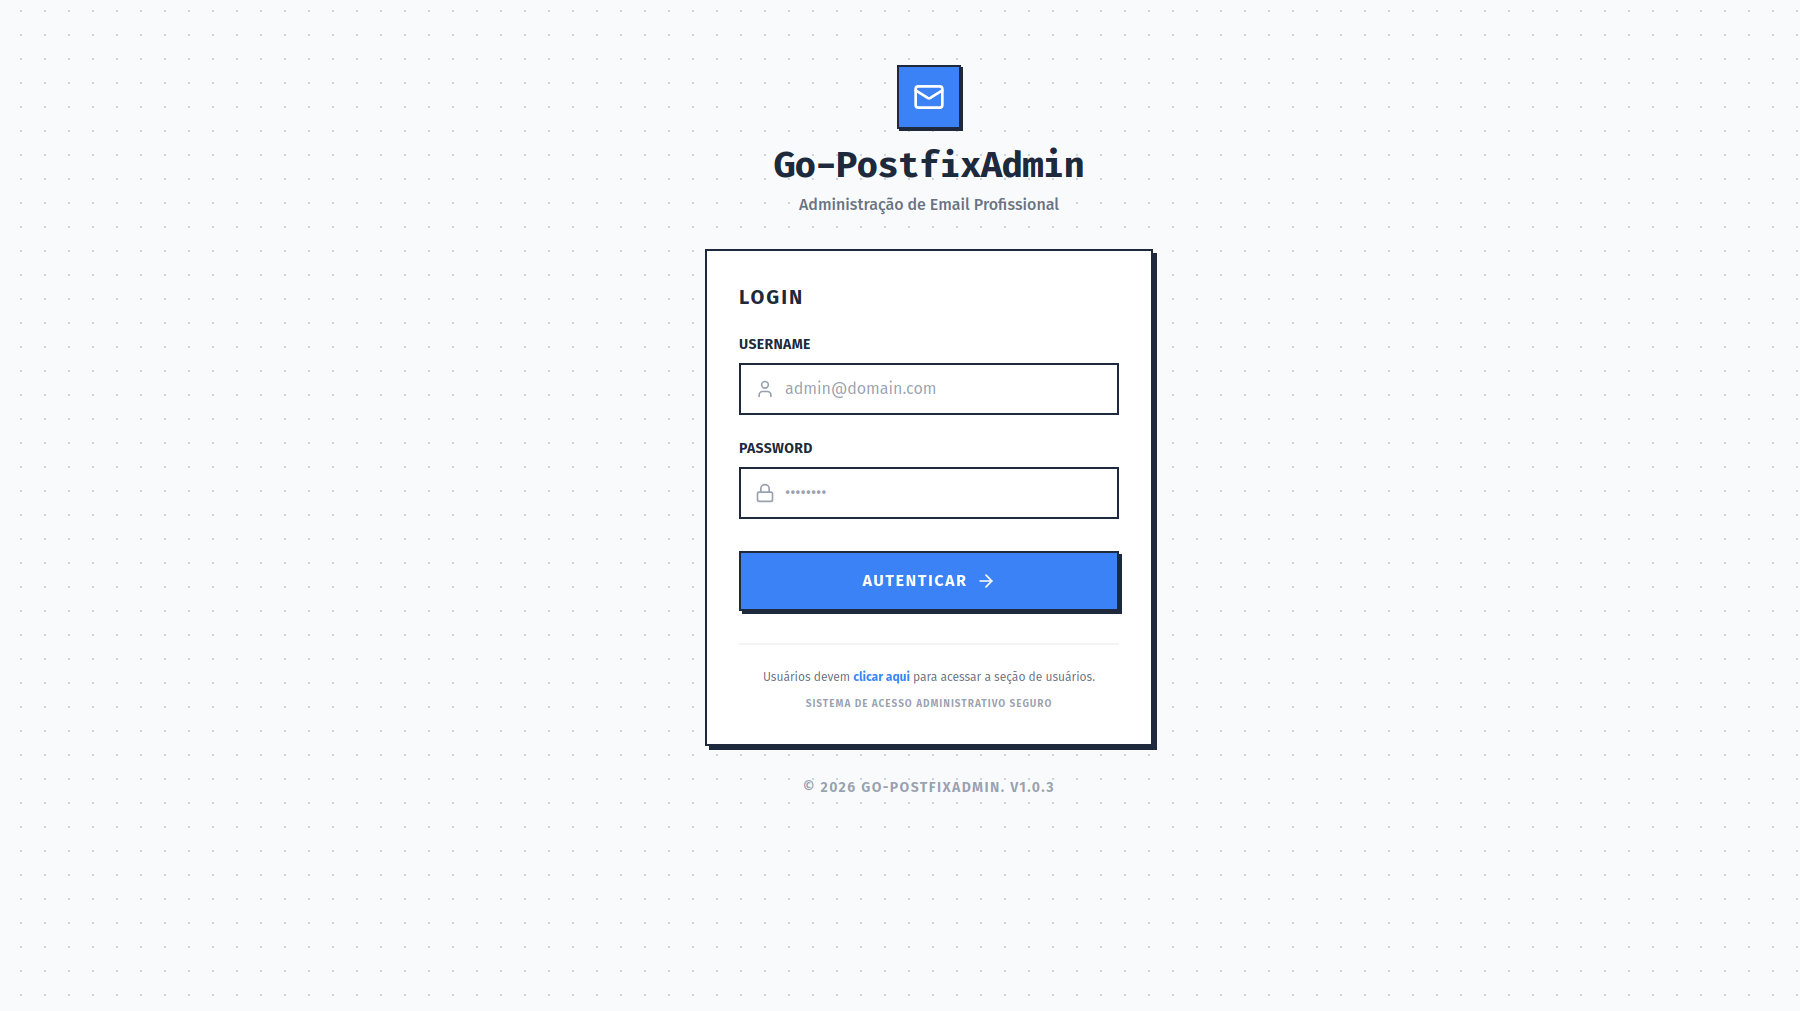
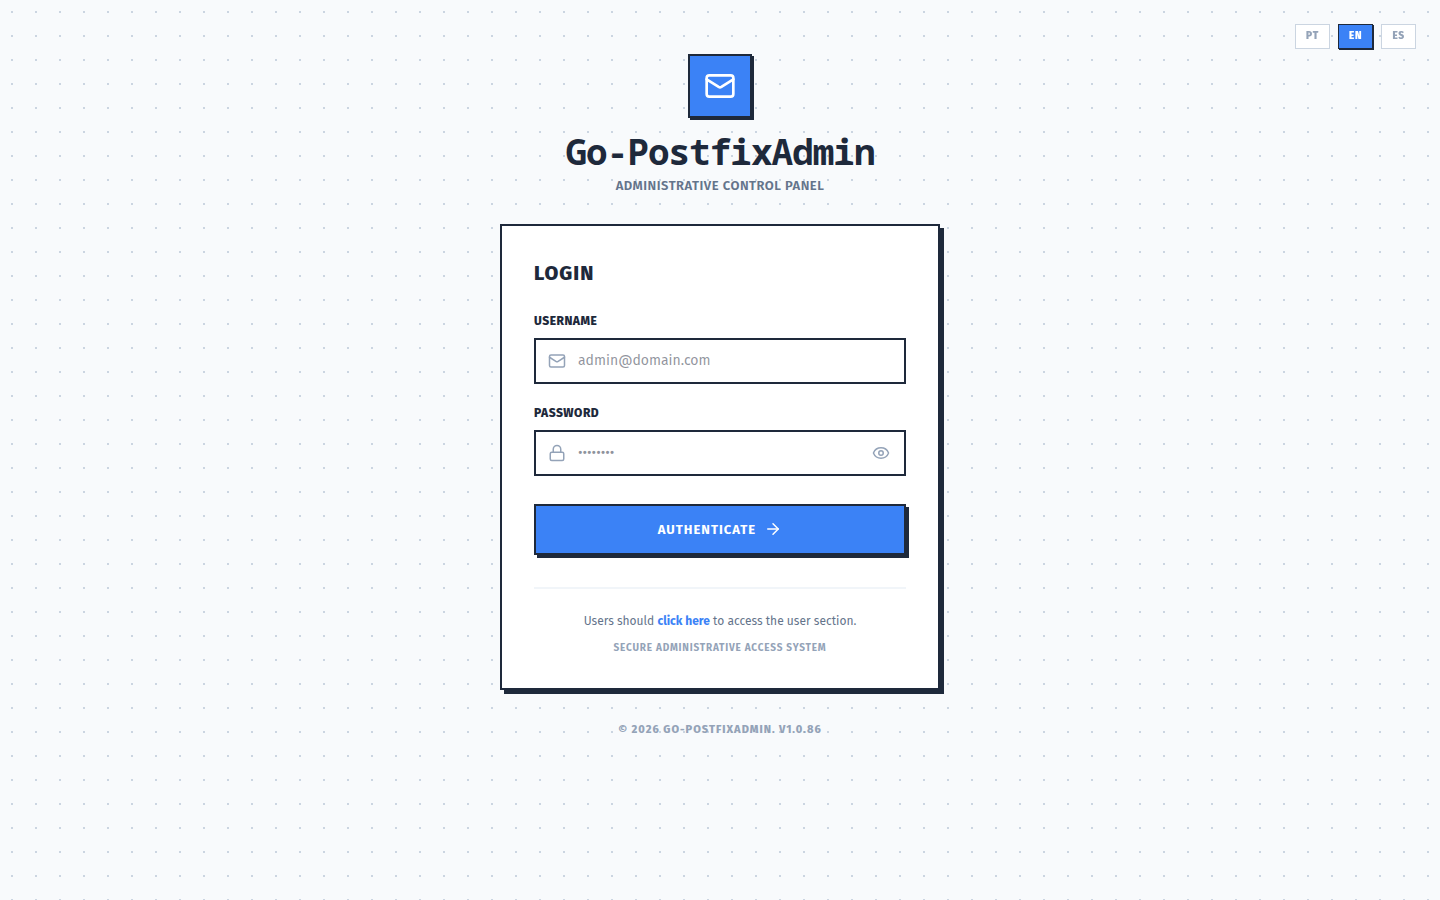
docs(screenshots): replace upstream PostfixAdmin screenshots with Go-PostfixAdmin ones
The DOCUMENTS/screenshots folder contained images and a README copied from
github.com/postfixadmin/postfixadmin. Replace them with fresh captures of the
Go-PostfixAdmin Vue SPA (demo data) and rename the sidebar heading from
"PostfixAdmin" to "Go-PostfixAdmin" to avoid confusion with the upstream project.

Closes #1

Changed region(s): [[0.3438, 0.2489, 0.6562, 0.84], [0.375, 0.0622, 0.625, 0.2489], [0.9062, 0.0311, 0.9688, 0.0622]]

diff --git a/frontend/src/components/SidebarNav.vue b/frontend/src/components/SidebarNav.vue
@@ -4,7 +4,7 @@
       <div class="logo-icon">
         <Icon name="mail" :size="20" color="white" />
       </div>
-      <h1 class="logo-text">PostfixAdmin</h1>
+      <h1 class="logo-text">Go-PostfixAdmin</h1>
     </div>
 
     <nav class="sidebar-nav">
@@ -98,7 +98,8 @@ function isSettingsDisabled(item: { to: string; perm: string | null }) {
 }
 
 .logo-text {
-  font-size: 20px;
+  font-size: 17px;
+  white-space: nowrap;
   font-weight: 700;
   font-family: monospace;
   color: var(--color-brand-text);

diff --git a/DOCUMENTS/screenshots/README.md b/DOCUMENTS/screenshots/README.md
@@ -1,108 +1,27 @@
-# Some screenshots of Postfixadmin 
+# Go-PostfixAdmin Screenshots
 
-## 1. Setup process
+All screenshots below were taken from the Go-PostfixAdmin Vue 3 SPA using demo data.
 
-When you visit visit https://your-site.com/postfixadmin/setup.php you'll see this -
+## Administrator
 
-![Initial setup greeting page](setup-step1.png "Initial setup load")
+| Login | Dashboard |
+|-------|-----------|
+| ![Login](admin-login.png) | ![Dashboard](dashboard.png) |
 
-After creating and adding the setup password hash into your config file, and then logging into the setup page with that password, you should see :
+| Domains | Mailboxes |
+|---------|-----------|
+| ![Domains](domains.png) | ![Mailboxes](mailboxes.png) |
 
-![Setup after auth](setup-step2.png "Setup after auth")
+| Aliases | Administrators |
+|---------|----------------|
+| ![Aliases](aliases.png) | ![Administrators](admins.png) |
 
-If there are any hosting errors, or issues with your environment, they may be listed here. 
+## User Portal
 
-Create a new admin account using your setup password .... then you can login as an admin and start creating domains and mailboxes.
+| Login | Dashboard (forwarding & password) |
+|-------|-----------------------------------|
+| ![User login](user-login.png) | ![User dashboard](user-dashboard.png) |
 
-## 2. As an Admin user
-
-### Login
-
-![Admin Login](admin-login.png "Admin Login")
-
-### Welcome page
-
-![Admin Welcome](admin-welcome.png "Admin welcome")
-
-### View other admins
-
-![Admin list](admin-list.png "Admin list")
-
-### View domains
-
-![Domain list](admin-domain-list.png "Domain list")
-
-
-### View mailboxes and aliases for domain
-
-![Virtual overview](mailboxes-and-forwards-for-domain.png "Viewing aliases and mailboxes for a domain")
-
-### Add mailbox
-
-You can create as many mailboxes as you want ... 
-
-![Mailbox adding](mailbox-adding.png "Creating a new mailbox")
-
-
-### Add aliases (forwards)
-
-![Foward adding](create-new-alias.png "Creating a new forward")
-
-### Add Fetchmail config for mailbox
-
-![Setup Fetchmail](fetchmail-new-config.png "Fetchmail settings")
-
-### Add a Domain Key for use with OpenDKIM
-
-Specify the selector, domain it's for and the public and private keys (PEM encoded).
-
-![Add Domain Key](dkim-add-domain-key.png "DKIM - add domain")
-
-### Add a Sign Table Entry for use with OpenDKIM
-
-![Add Sign Table Entry](dkim-add-sign-table-entry.png "DKIM - add signing table entry")
-
-
-## View Log -&gt;  Entries for domain
-
-PostfixAdmin mains a log of changes that have been applied to a domain's configuration -
-
-![View Log - Example.com](admin-viewlog-domain.png "View Log for domain")
-
-## Send Email -&gt; Send Broadcast email
-
-You can email all mailboxes in known domain(s) -
-
-![Send email - broadcast to users](admin-broadcast-email.png "Broadcast email")
-
-
-## 3. As a User
-
-### Login
-
-![User loginl](users-login.png "User login")
-
-### Welcome page
-
-
-![User welcome](users-welcome.png "User welcome")
-
-### Change your mail forward
-
-![User - edit mail forward(s)](users-edit-mail-forward.png "User mail forwards")
-
-### Set / Unset autoresponse (Vacation)
-
-![User - autoresponder](users-enable-vacation-autoresponse.png "User setup autoresponder")
-
-
-### Set / Unset TOTP Password
-
-To help protect your postfixadmin account, you can enable TOTP (aka Google Authenticator etc) to make it harder for a third party to compromise your account.
-
-![User - setup TOTP password](users-enable-totp.png "User enable TOtP")
-
-### I forgot my password
-
-
-![User - forgot password](users-forgotten-password.png "User forgot password")
+| Vacation / Auto-reply |
+|-----------------------|
+| ![Vacation](user-vacation.png) |

diff --git a/README.md b/README.md
@@ -50,19 +50,19 @@ Pre-built binaries, .deb and .rpm packages are published on every release: [GitH
 
 | Login | Dashboard |
 |-------|-----------|
-| ![Login](DOCUMENTS/screenshots/admin-login.png) | ![Dashboard](DOCUMENTS/screenshots/admin-welcome.png) |
+| ![Login](DOCUMENTS/screenshots/admin-login.png) | ![Dashboard](DOCUMENTS/screenshots/dashboard.png) |
 
-| Domains | Mailboxes & Forwards |
-|---------|----------------------|
-| ![Domains](DOCUMENTS/screenshots/admin-domain-list.png) | ![Mailboxes](DOCUMENTS/screenshots/mailboxes-and-forwards-for-domain.png) |
+| Domains | Mailboxes |
+|---------|-----------|
+| ![Domains](DOCUMENTS/screenshots/domains.png) | ![Mailboxes](DOCUMENTS/screenshots/mailboxes.png) |
 
-| Create Alias | Admins |
-|--------------|--------|
-| ![Alias](DOCUMENTS/screenshots/create-new-alias.png) | ![Admins](DOCUMENTS/screenshots/admin-list.png) |
+| Aliases | Administrators |
+|---------|----------------|
+| ![Aliases](DOCUMENTS/screenshots/aliases.png) | ![Admins](DOCUMENTS/screenshots/admins.png) |
 
-| User Portal – Vacation | User Portal – Forwarding |
-|------------------------|------------------------|
-| ![Vacation](DOCUMENTS/screenshots/users-enable-vacation-autoresponse.png) | ![Forwarding](DOCUMENTS/screenshots/users-edit-mail-forward.png) |
+| User Portal – Dashboard | User Portal – Vacation |
+|-------------------------|------------------------|
+| ![User dashboard](DOCUMENTS/screenshots/user-dashboard.png) | ![Vacation](DOCUMENTS/screenshots/user-vacation.png) |
 
 More screenshots in [DOCUMENTS/screenshots](DOCUMENTS/screenshots).
 
